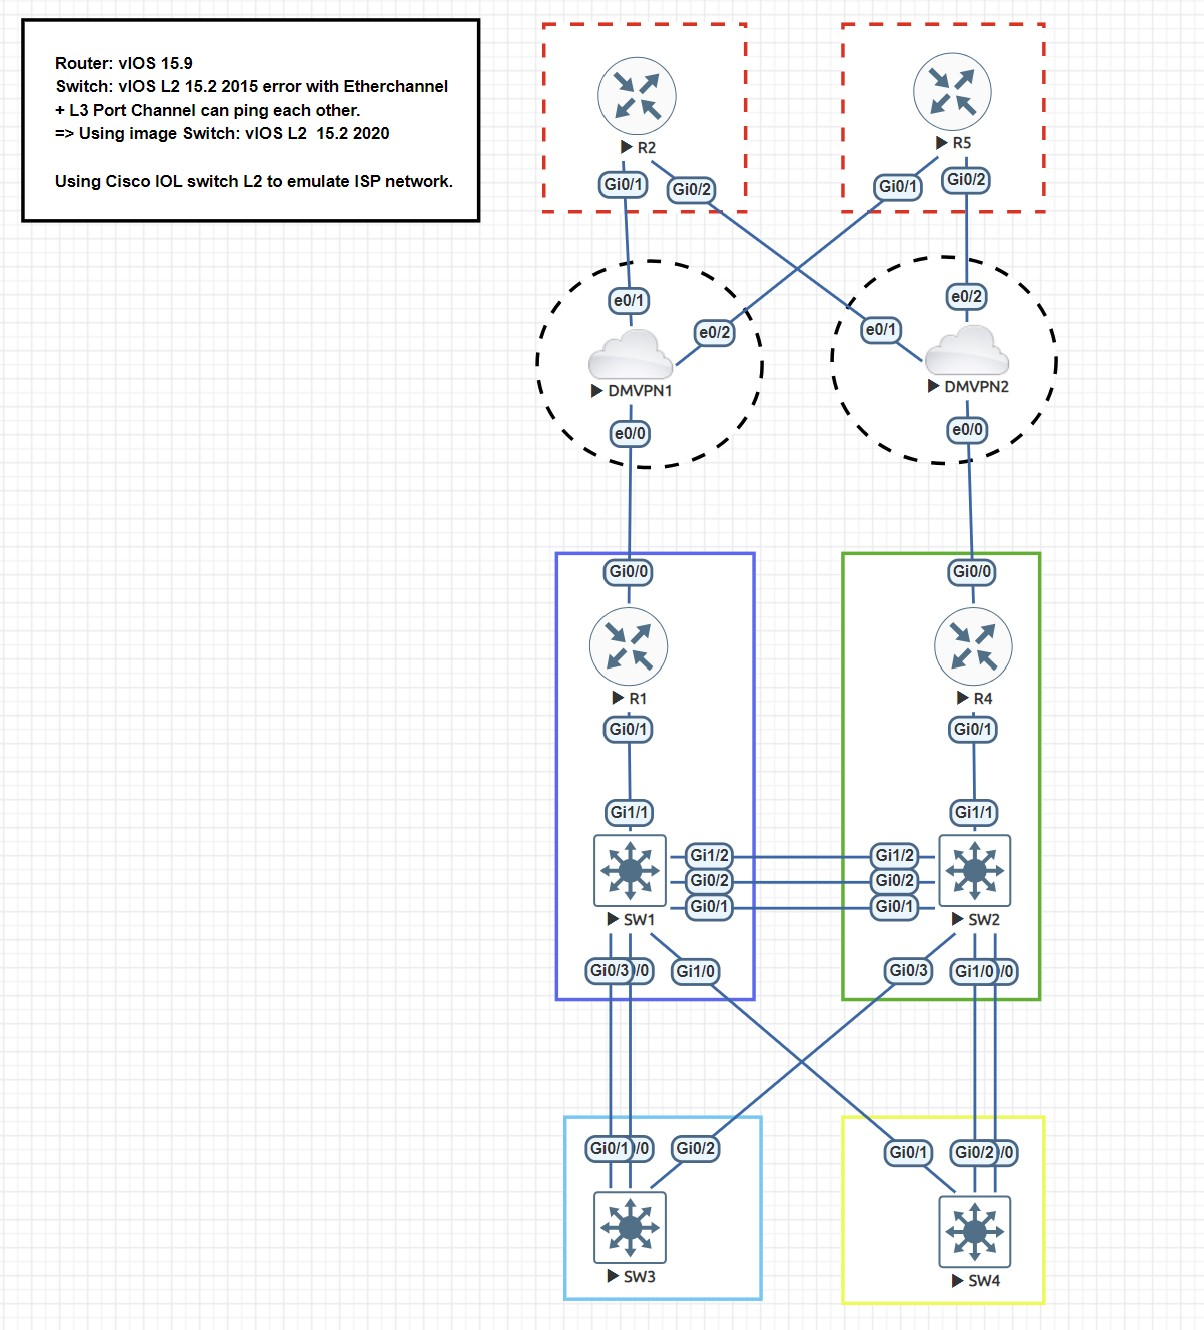
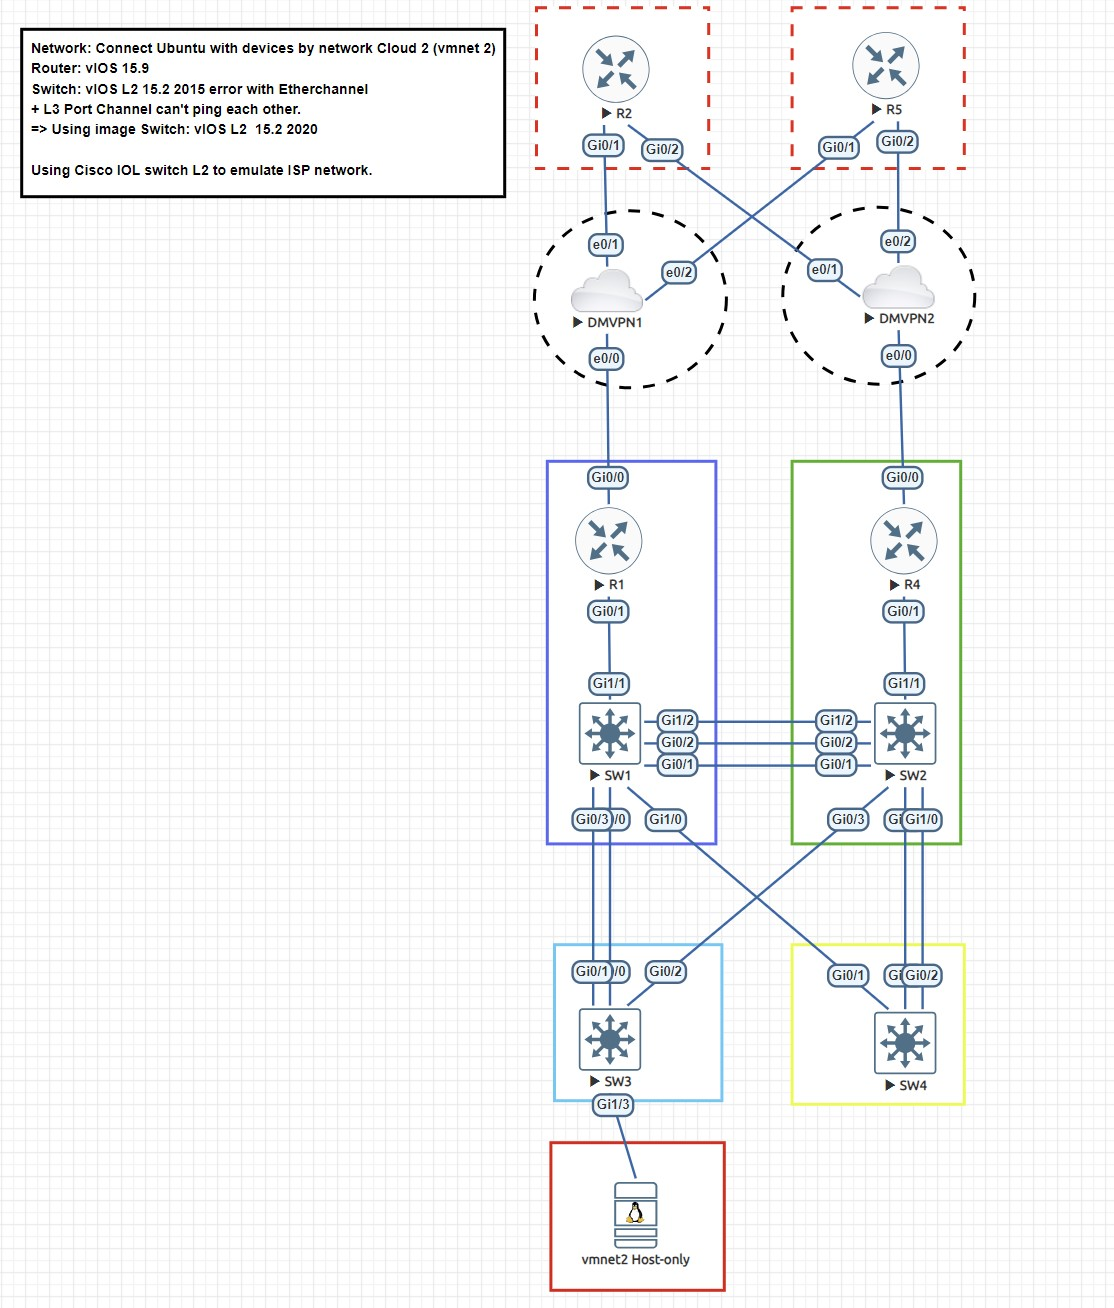
add configure ssh on ubuntu server to connec to devices

diff --git a/BSCI_EIGRP/README.md b/BSCI_EIGRP/README.md
@@ -4,11 +4,19 @@
 *I have changed border routers (R1, R4) run Frame Relay to connect to Remote sites (R2, R5), by configuring DMVPN. Because vIOS image has not serial interfaces, and I can learn DMVPN.*
 ![Topology](/BSCI_EIGRP/DBM_Inc_EIGRP_Diagram_lab.JPG)
 
-
 ## Init config
 ```bash
 backup_telnet.py
-path_code: BSCI_EIGRP
+PATH_CODE: BSCI_EIGRP
+TEMPLATE_DIR: template
+```
+
+**Adding route for Ubuntu server**:
+```
+ping -I ens37 10.10.13.1
+
+sudo route add -net 10.0.0.0/8 gw 192.168.20.137
+ssh -B ens37 cisco@10.255.255.9
 ```
 
 ## DMVPN

diff --git a/BCMSN_Campus/README.md b/BCMSN_Campus/README.md
@@ -16,5 +16,7 @@ verify.py
 **Adding route for local interface**:
 ```
 ping -I ens37 10.10.13.1
+
 sudo route add -net 10.0.0.0/8 gw 192.168.20.137
+ssh -B ens37 cisco@10.255.255.9
 ```
